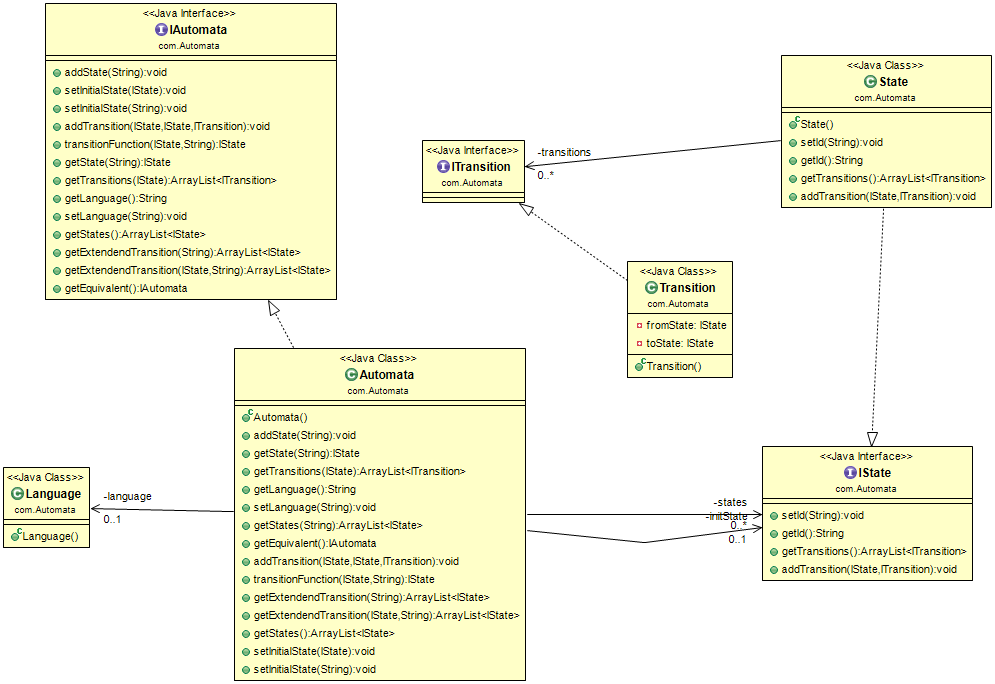
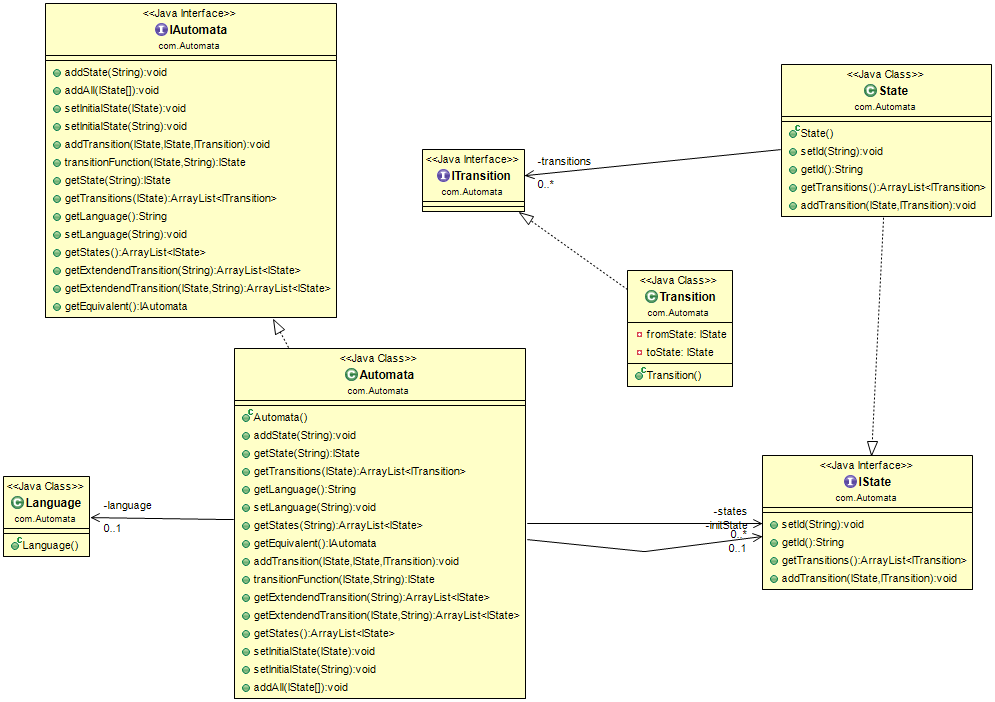
added method to automata: addAll

diff --git a/Automata/src/main/java/com/Automata/IAutomata.java b/Automata/src/main/java/com/Automata/IAutomata.java
@@ -12,6 +12,7 @@ import java.util.ArrayList;
 public interface IAutomata {
 
 	public void addState(String id);
+	public void addAll(IState...states);
 	public void setInitialState(IState state);
 	public void setInitialState(String id);
 	public void addTransition(IState from, IState to, ITransition transition);

diff --git a/Automata/src/main/java/com/Automata/Automata.java b/Automata/src/main/java/com/Automata/Automata.java
@@ -98,6 +98,13 @@ public class Automata implements IAutomata{
 		// TODO Auto-generated method stub
 		
 	}
+
+	public void addAll(IState... states) {
+		for(IState state : states) {
+			this.states.put(state.getId(), state);
+		}
+		
+	}
 	
 	
 }
